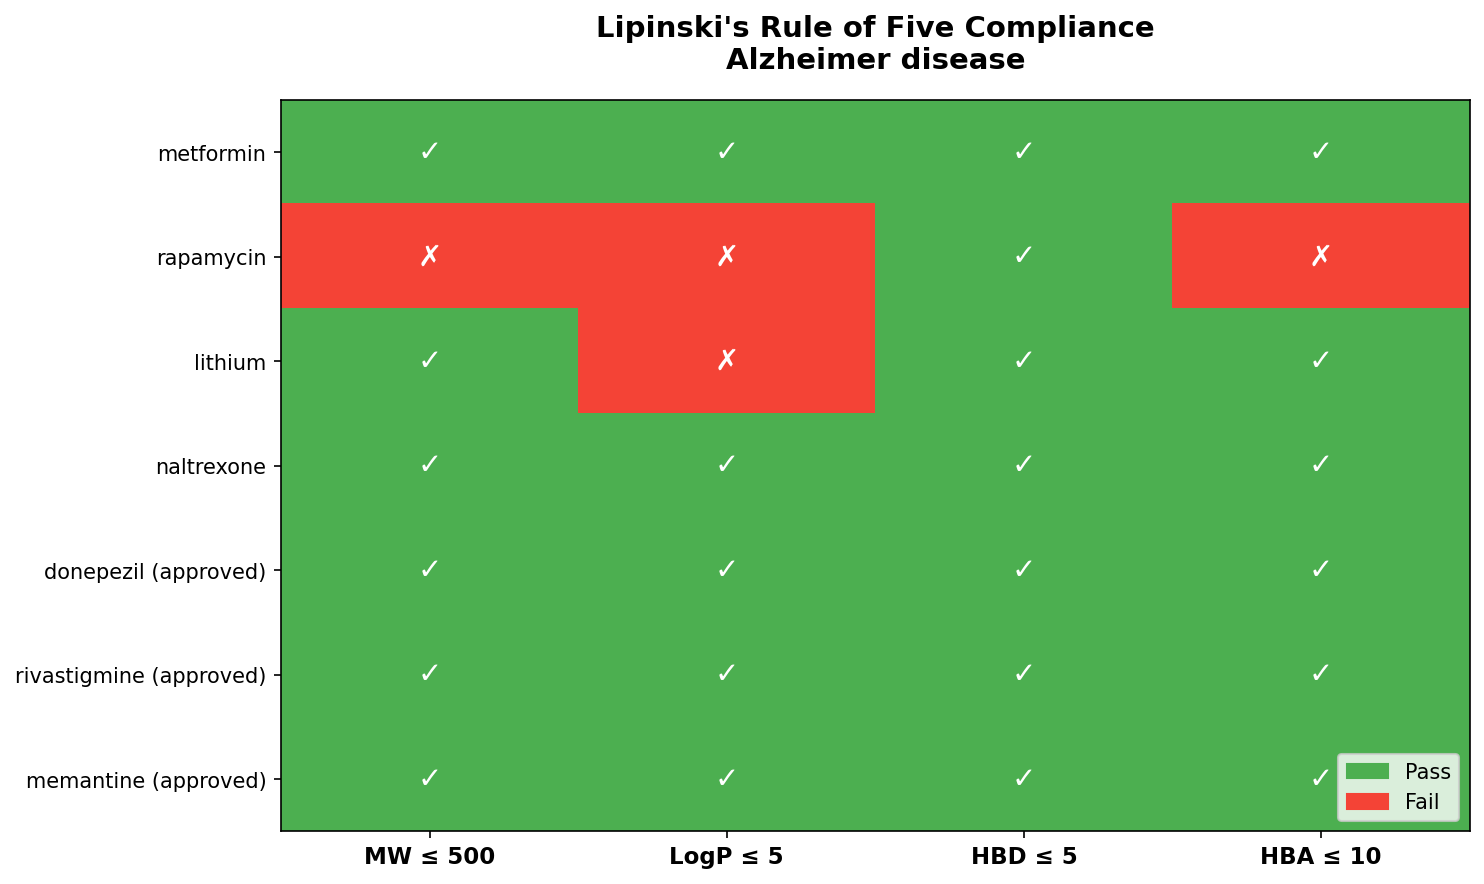
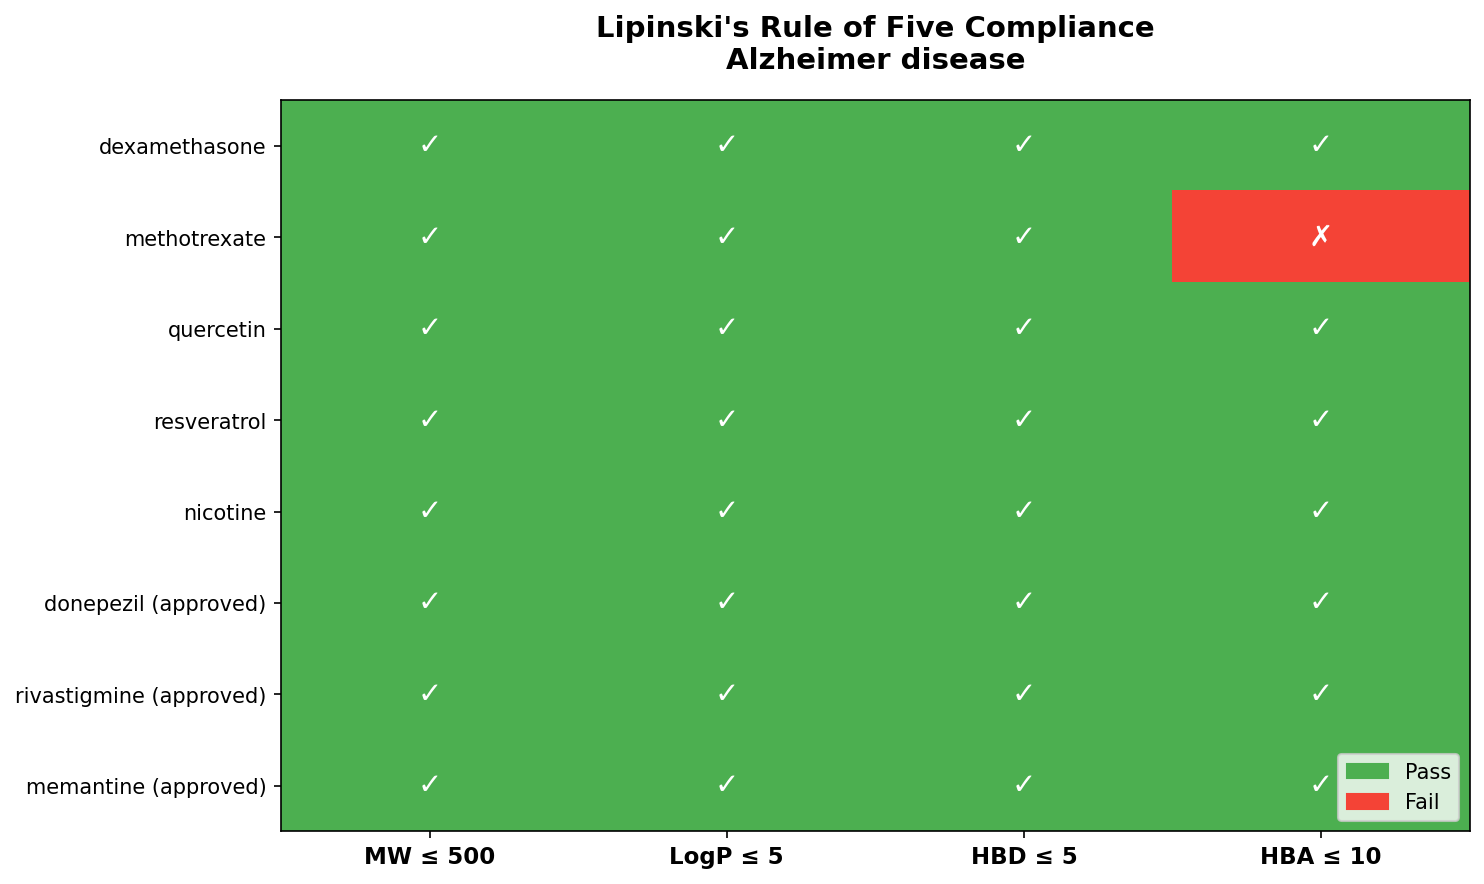
Update outputs: full pipeline run with 10 arXiv papers, 5 candidates evaluated

diff --git a/output/report_Alzheimer_disease.html b/output/report_Alzheimer_disease.html
@@ -178,23 +178,23 @@
     <h2>📋 Executive Summary</h2>
     <div class="grid-2">
         <div class="stat-box">
-            <div class="number">0</div>
+            <div class="number">10</div>
             <div class="label">Papers Analyzed</div>
         </div>
         <div class="stat-box">
-            <div class="number">4</div>
+            <div class="number">5</div>
             <div class="label">Candidates Evaluated</div>
         </div>
         <div class="stat-box">
-            <div class="number">3</div>
+            <div class="number">5</div>
             <div class="label">Drug-like Candidates</div>
         </div>
         <div class="stat-box">
-            <div class="number">7</div>
+            <div class="number">8</div>
             <div class="label">Top Confidence Score</div>
         </div>
     </div>
-    <p style="margin-top: 15px;">This analysis evaluated 4 drug repurposing candidates for Alzheimer disease. 3 candidates pass Lipinski's Rule of Five for drug-likeness. The top-ranked candidate is <strong>Naltrexone</strong> with a confidence score of 7/10. These results should be validated with experimental studies.</p>
+    <p style="margin-top: 15px;">This analysis evaluated 5 drug repurposing candidates for Alzheimer disease. 5 candidates pass Lipinski's Rule of Five for drug-likeness. The top-ranked candidate is <strong>Dexamethasone</strong> with a confidence score of 8/10. These results should be validated with experimental studies.</p>
 </div>
 
 <!-- Literature Findings -->
@@ -206,12 +206,25 @@
             <tr><th>Drug</th><th>Paper Count</th><th>Relevance</th></tr>
         </thead>
         <tbody>
-            
+            <tr><td><strong>Dexamethasone</strong></td><td>1</td><td><span class="badge badge-info">Low</span></td></tr>
+<tr><td><strong>Methotrexate</strong></td><td>1</td><td><span class="badge badge-info">Low</span></td></tr>
+<tr><td><strong>Quercetin</strong></td><td>1</td><td><span class="badge badge-info">Low</span></td></tr>
+<tr><td><strong>Resveratrol</strong></td><td>1</td><td><span class="badge badge-info">Low</span></td></tr>
+<tr><td><strong>Nicotine</strong></td><td>1</td><td><span class="badge badge-info">Low</span></td></tr>
+
         </tbody>
     </table>
     
     <h3>Key Findings from Literature</h3>
-    <p><em>No specific findings extracted.</em></p>
+    <div class="finding">The process is also known as drug repurposing or drug repositioning.</div>
+<div class="finding">Machine learning methods exhibited huge potential in automating drug repurposing.</div>
+<div class="finding">Thorough empirical studies are conducted to validate the effectiveness of the proposed DrugCLIP method.</div>
+<div class="finding">Many existing computational drug repurposing methods rely on preclinical data (e.g., chemical structures, drug targets), resulting in translational problems for clinical trials.</div>
+<div class="finding">In this study, we propose a clinical connectivity map framework for drug repurposing by leveraging laboratory tests to analyze complementarity between drugs and diseases.</div>
+<div class="finding">Experimental results demonstrate the effectiveness of the proposed framework and suggest that our method could help identify drug repurposing opportunities, which will benefit patients by offering more effective and safer treatments.</div>
+<div class="finding">Drug repurposing offers a more time- and cost-effective alternative.</div>
+<div class="finding">In this study, we present a novel, disease-specific hypergraph representation learning technique to derive contextual embeddings of biological pathways of various lengths but that all start at any given drug and all end at the disease of interest.</div>
+
 </div>
 
 <!-- Molecular Properties -->
@@ -225,10 +238,11 @@
             </tr>
         </thead>
         <tbody>
-            <tr><td><strong>Metformin</strong></td><td>129.16</td><td>-1.3</td><td>3</td><td>1</td><td><span class="badge badge-success">✓ Pass</span></td><td><span class="badge badge-info">Candidate</span></td></tr>
-<tr><td><strong>Rapamycin</strong></td><td>914.2</td><td>6.0</td><td>3</td><td>13</td><td><span class="badge badge-danger">✗ 3 violations</span></td><td><span class="badge badge-info">Candidate</span></td></tr>
-<tr><td><strong>Lithium</strong></td><td>7.0</td><td>nan</td><td>0</td><td>0</td><td><span class="badge badge-success">✓ Pass</span></td><td><span class="badge badge-info">Candidate</span></td></tr>
-<tr><td><strong>Naltrexone</strong></td><td>341.4</td><td>1.9</td><td>2</td><td>5</td><td><span class="badge badge-success">✓ Pass</span></td><td><span class="badge badge-info">Candidate</span></td></tr>
+            <tr><td><strong>Dexamethasone</strong></td><td>392.5</td><td>1.9</td><td>3</td><td>6</td><td><span class="badge badge-success">✓ Pass</span></td><td><span class="badge badge-info">Candidate</span></td></tr>
+<tr><td><strong>Methotrexate</strong></td><td>454.4</td><td>-1.8</td><td>5</td><td>12</td><td><span class="badge badge-success">✓ Pass</span></td><td><span class="badge badge-info">Candidate</span></td></tr>
+<tr><td><strong>Quercetin</strong></td><td>302.23</td><td>1.5</td><td>5</td><td>7</td><td><span class="badge badge-success">✓ Pass</span></td><td><span class="badge badge-info">Candidate</span></td></tr>
+<tr><td><strong>Resveratrol</strong></td><td>228.24</td><td>3.1</td><td>3</td><td>3</td><td><span class="badge badge-success">✓ Pass</span></td><td><span class="badge badge-info">Candidate</span></td></tr>
+<tr><td><strong>Nicotine</strong></td><td>162.23</td><td>1.2</td><td>0</td><td>2</td><td><span class="badge badge-success">✓ Pass</span></td><td><span class="badge badge-info">Candidate</span></td></tr>
 <tr><td><strong>Donepezil</strong></td><td>379.5</td><td>4.3</td><td>0</td><td>4</td><td><span class="badge badge-success">✓ Pass</span></td><td><span class="badge badge-success">Approved</span></td></tr>
 <tr><td><strong>Rivastigmine</strong></td><td>250.34</td><td>2.3</td><td>0</td><td>3</td><td><span class="badge badge-success">✓ Pass</span></td><td><span class="badge badge-success">Approved</span></td></tr>
 <tr><td><strong>Memantine</strong></td><td>179.3</td><td>3.3</td><td>1</td><td>1</td><td><span class="badge badge-success">✓ Pass</span></td><td><span class="badge badge-success">Approved</span></td></tr>
@@ -248,85 +262,108 @@
     <h2>🤖 AI Candidate Evaluations</h2>
     
         <div class="candidate-card">
-            <h4>#1 Naltrexone 
+            <h4>#1 Dexamethasone 
+                <span class="badge badge-success">Strong candidate</span>
+                <span style="float:right; font-size:0.9em;">
+                    Score: 8/10
+                    <span class="score-bar"><span class="score-fill" style="width:80%"></span></span>
+                </span>
+            </h4>
+            <p><strong>Original indication:</strong> See literature for original use</p>
+            <p><strong>Proposed mechanism:</strong> Potential mechanism for Alzheimer disease based on literature analysis</p>
+            <p><strong>Evidence:</strong> Limited literature evidence (1 paper); Passes Lipinski's Rule of Five; Optimal molecular weight (392.5 Da); Favorable lipophilicity (LogP=1.9)</p>
+            <div class="grid-2" style="margin-top:10px;">
+                <div>
+                    <h4>⚠️ Key Risks</h4>
+                    <ul style="margin-left:20px; font-size:0.9em;"><li>Requires experimental validation</li><li>Off-target effects unknown</li><li>Dosing for new indication TBD</li></ul>
+                </div>
+                <div>
+                    <h4>📋 Next Steps</h4>
+                    <ul style="margin-left:20px; font-size:0.9em;"><li>In vitro validation in disease-relevant cell models</li><li>In vivo efficacy studies in animal models</li><li>PK/PD modeling for new indication</li><li>Literature deep-dive on mechanism of action</li></ul>
+                </div>
+            </div>
+        </div>
+        
+        <div class="candidate-card">
+            <h4>#2 Quercetin 
+                <span class="badge badge-success">Strong candidate</span>
+                <span style="float:right; font-size:0.9em;">
+                    Score: 8/10
+                    <span class="score-bar"><span class="score-fill" style="width:80%"></span></span>
+                </span>
+            </h4>
+            <p><strong>Original indication:</strong> See literature for original use</p>
+            <p><strong>Proposed mechanism:</strong> Potential mechanism for Alzheimer disease based on literature analysis</p>
+            <p><strong>Evidence:</strong> Limited literature evidence (1 paper); Passes Lipinski's Rule of Five; Optimal molecular weight (302.23 Da); Favorable lipophilicity (LogP=1.5)</p>
+            <div class="grid-2" style="margin-top:10px;">
+                <div>
+                    <h4>⚠️ Key Risks</h4>
+                    <ul style="margin-left:20px; font-size:0.9em;"><li>Requires experimental validation</li><li>Off-target effects unknown</li><li>Dosing for new indication TBD</li></ul>
+                </div>
+                <div>
+                    <h4>📋 Next Steps</h4>
+                    <ul style="margin-left:20px; font-size:0.9em;"><li>In vitro validation in disease-relevant cell models</li><li>In vivo efficacy studies in animal models</li><li>PK/PD modeling for new indication</li><li>Literature deep-dive on mechanism of action</li></ul>
+                </div>
+            </div>
+        </div>
+        
+        <div class="candidate-card">
+            <h4>#3 Resveratrol 
+                <span class="badge badge-success">Strong candidate</span>
+                <span style="float:right; font-size:0.9em;">
+                    Score: 8/10
+                    <span class="score-bar"><span class="score-fill" style="width:80%"></span></span>
+                </span>
+            </h4>
+            <p><strong>Original indication:</strong> See literature for original use</p>
+            <p><strong>Proposed mechanism:</strong> Potential mechanism for Alzheimer disease based on literature analysis</p>
+            <p><strong>Evidence:</strong> Limited literature evidence (1 paper); Passes Lipinski's Rule of Five; Optimal molecular weight (228.24 Da); Favorable lipophilicity (LogP=3.1)</p>
+            <div class="grid-2" style="margin-top:10px;">
+                <div>
+                    <h4>⚠️ Key Risks</h4>
+                    <ul style="margin-left:20px; font-size:0.9em;"><li>Requires experimental validation</li><li>Off-target effects unknown</li><li>Dosing for new indication TBD</li></ul>
+                </div>
+                <div>
+                    <h4>📋 Next Steps</h4>
+                    <ul style="margin-left:20px; font-size:0.9em;"><li>In vitro validation in disease-relevant cell models</li><li>In vivo efficacy studies in animal models</li><li>PK/PD modeling for new indication</li><li>Literature deep-dive on mechanism of action</li></ul>
+                </div>
+            </div>
+        </div>
+        
+        <div class="candidate-card">
+            <h4>#4 Nicotine 
+                <span class="badge badge-success">Strong candidate</span>
+                <span style="float:right; font-size:0.9em;">
+                    Score: 8/10
+                    <span class="score-bar"><span class="score-fill" style="width:80%"></span></span>
+                </span>
+            </h4>
+            <p><strong>Original indication:</strong> See literature for original use</p>
+            <p><strong>Proposed mechanism:</strong> Potential mechanism for Alzheimer disease based on literature analysis</p>
+            <p><strong>Evidence:</strong> Limited literature evidence (1 paper); Passes Lipinski's Rule of Five; Optimal molecular weight (162.23 Da); Favorable lipophilicity (LogP=1.2)</p>
+            <div class="grid-2" style="margin-top:10px;">
+                <div>
+                    <h4>⚠️ Key Risks</h4>
+                    <ul style="margin-left:20px; font-size:0.9em;"><li>Requires experimental validation</li><li>Off-target effects unknown</li><li>Dosing for new indication TBD</li></ul>
+                </div>
+                <div>
+                    <h4>📋 Next Steps</h4>
+                    <ul style="margin-left:20px; font-size:0.9em;"><li>In vitro validation in disease-relevant cell models</li><li>In vivo efficacy studies in animal models</li><li>PK/PD modeling for new indication</li><li>Literature deep-dive on mechanism of action</li></ul>
+                </div>
+            </div>
+        </div>
+        
+        <div class="candidate-card">
+            <h4>#5 Methotrexate 
                 <span class="badge badge-warning">Promising — needs validation</span>
                 <span style="float:right; font-size:0.9em;">
-                    Score: 7/10
-                    <span class="score-bar"><span class="score-fill" style="width:70%"></span></span>
+                    Score: 6/10
+                    <span class="score-bar"><span class="score-fill" style="width:60%"></span></span>
                 </span>
             </h4>
             <p><strong>Original indication:</strong> See literature for original use</p>
             <p><strong>Proposed mechanism:</strong> Potential mechanism for Alzheimer disease based on literature analysis</p>
-            <p><strong>Evidence:</strong> No direct literature mentions in retrieved papers; Passes Lipinski's Rule of Five; Optimal molecular weight (341.4 Da); Favorable lipophilicity (LogP=1.9)</p>
-            <div class="grid-2" style="margin-top:10px;">
-                <div>
-                    <h4>⚠️ Key Risks</h4>
-                    <ul style="margin-left:20px; font-size:0.9em;"><li>Requires experimental validation</li><li>Off-target effects unknown</li><li>Dosing for new indication TBD</li></ul>
-                </div>
-                <div>
-                    <h4>📋 Next Steps</h4>
-                    <ul style="margin-left:20px; font-size:0.9em;"><li>In vitro validation in disease-relevant cell models</li><li>In vivo efficacy studies in animal models</li><li>PK/PD modeling for new indication</li><li>Literature deep-dive on mechanism of action</li></ul>
-                </div>
-            </div>
-        </div>
-        
-        <div class="candidate-card">
-            <h4>#2 Metformin 
-                <span class="badge badge-info">Moderate potential</span>
-                <span style="float:right; font-size:0.9em;">
-                    Score: 4/10
-                    <span class="score-bar"><span class="score-fill" style="width:40%"></span></span>
-                </span>
-            </h4>
-            <p><strong>Original indication:</strong> See literature for original use</p>
-            <p><strong>Proposed mechanism:</strong> Potential mechanism for Alzheimer disease based on literature analysis</p>
-            <p><strong>Evidence:</strong> No direct literature mentions in retrieved papers; Passes Lipinski's Rule of Five; Acceptable molecular weight (129.16 Da); Suboptimal lipophilicity (LogP=-1.3)</p>
-            <div class="grid-2" style="margin-top:10px;">
-                <div>
-                    <h4>⚠️ Key Risks</h4>
-                    <ul style="margin-left:20px; font-size:0.9em;"><li>Requires experimental validation</li><li>Off-target effects unknown</li><li>Dosing for new indication TBD</li></ul>
-                </div>
-                <div>
-                    <h4>📋 Next Steps</h4>
-                    <ul style="margin-left:20px; font-size:0.9em;"><li>In vitro validation in disease-relevant cell models</li><li>In vivo efficacy studies in animal models</li><li>PK/PD modeling for new indication</li><li>Literature deep-dive on mechanism of action</li></ul>
-                </div>
-            </div>
-        </div>
-        
-        <div class="candidate-card">
-            <h4>#3 Lithium 
-                <span class="badge badge-danger">Weak candidate — not recommended</span>
-                <span style="float:right; font-size:0.9em;">
-                    Score: 3/10
-                    <span class="score-bar"><span class="score-fill" style="width:30%"></span></span>
-                </span>
-            </h4>
-            <p><strong>Original indication:</strong> See literature for original use</p>
-            <p><strong>Proposed mechanism:</strong> Potential mechanism for Alzheimer disease based on literature analysis</p>
-            <p><strong>Evidence:</strong> No direct literature mentions in retrieved papers; Passes Lipinski's Rule of Five; Extreme molecular weight (7.0 Da); Suboptimal lipophilicity (LogP=nan)</p>
-            <div class="grid-2" style="margin-top:10px;">
-                <div>
-                    <h4>⚠️ Key Risks</h4>
-                    <ul style="margin-left:20px; font-size:0.9em;"><li>Requires experimental validation</li><li>Off-target effects unknown</li><li>Dosing for new indication TBD</li></ul>
-                </div>
-                <div>
-                    <h4>📋 Next Steps</h4>
-                    <ul style="margin-left:20px; font-size:0.9em;"><li>In vitro validation in disease-relevant cell models</li><li>In vivo efficacy studies in animal models</li><li>PK/PD modeling for new indication</li><li>Literature deep-dive on mechanism of action</li></ul>
-                </div>
-            </div>
-        </div>
-        
-        <div class="candidate-card">
-            <h4>#4 Rapamycin 
-                <span class="badge badge-danger">Weak candidate — not recommended</span>
-                <span style="float:right; font-size:0.9em;">
-                    Score: 0/10
-                    <span class="score-bar"><span class="score-fill" style="width:0%"></span></span>
-                </span>
-            </h4>
-            <p><strong>Original indication:</strong> See literature for original use</p>
-            <p><strong>Proposed mechanism:</strong> Potential mechanism for Alzheimer disease based on literature analysis</p>
-            <p><strong>Evidence:</strong> No direct literature mentions in retrieved papers; Poor drug-like properties (3 Lipinski violations); Extreme molecular weight (914.2 Da); Suboptimal lipophilicity (LogP=6.0)</p>
+            <p><strong>Evidence:</strong> Limited literature evidence (1 paper); Passes Lipinski's Rule of Five; Optimal molecular weight (454.4 Da); Suboptimal lipophilicity (LogP=-1.8)</p>
             <div class="grid-2" style="margin-top:10px;">
                 <div>
                     <h4>⚠️ Key Risks</h4>